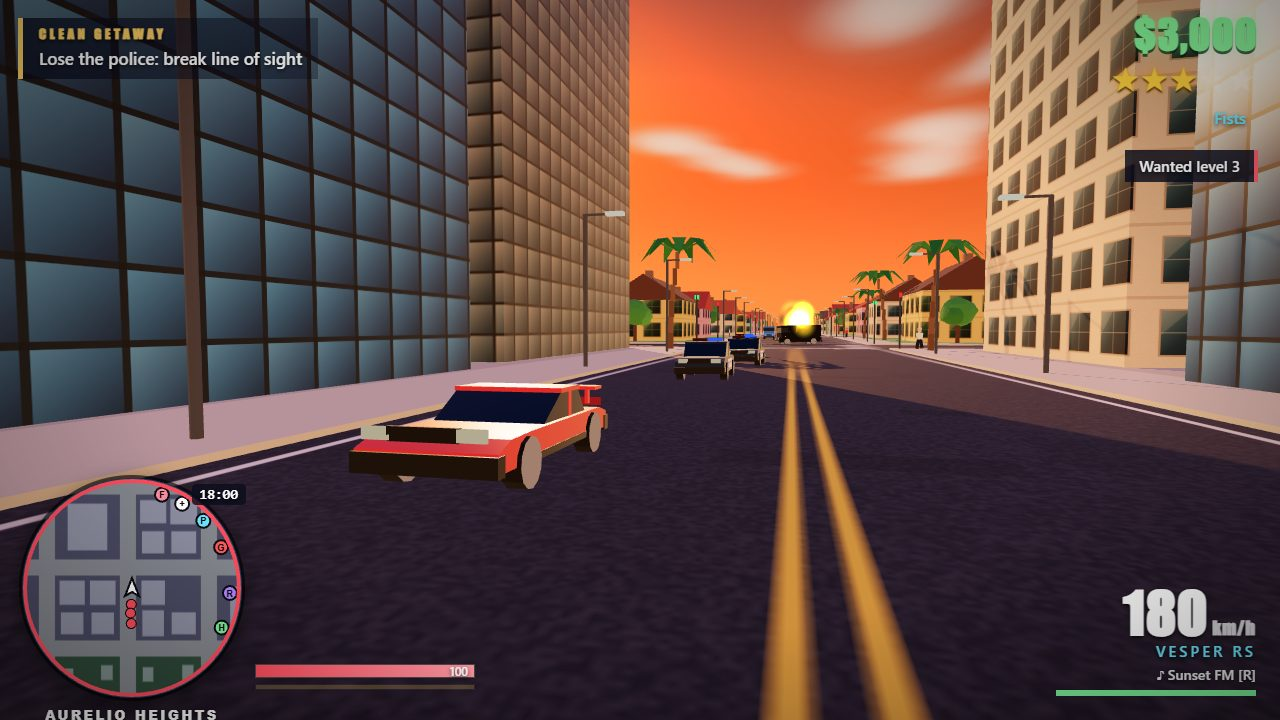
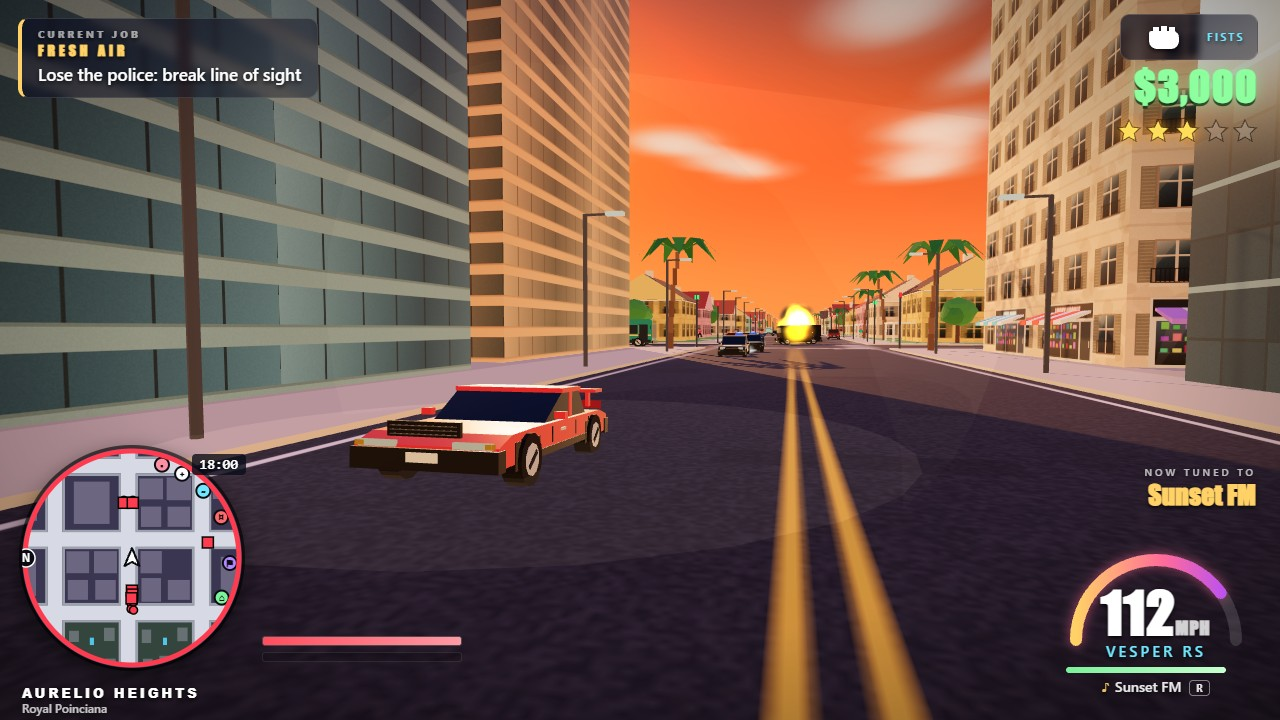
Style the new HUD and menus: SVG wanted stars, weapon card, gauge speedometer, pause panes, save slots; refresh screenshots

diff --git a/game/styles.css b/game/styles.css
@@ -88,3 +88,141 @@ html, body { margin: 0; height: 100%; overflow: hidden; background: #0a0c14; fon
 @keyframes blink { to { opacity: 0.35; } } @keyframes pulse { to { transform: scale(1.04); } } @keyframes floatup { from { opacity: 1; transform: translateY(0); } to { opacity: 0; transform: translateY(-40px); } }
 #loading { position: fixed; inset: 0; background: #0a0c14; z-index: 40; display: flex; flex-direction: column; align-items: center; justify-content: center; font: 700 22px Arial; letter-spacing: 0.3em; transition: opacity .6s; } #loading.done { opacity: 0; pointer-events: none; }
 #loading small { margin-top: 12px; font-size: 12px; opacity: 0.6; letter-spacing: 0.1em; }
+
+/* ---- HUD v2: glass panels, SVG stars and weapon icons, gauge speedometer, location, radio pop, death receipt ---- */
+.glass { background: linear-gradient(135deg, rgba(14,16,34,0.72), rgba(14,16,34,0.38)); border: 1px solid rgba(255,255,255,0.12); border-radius: 10px; backdrop-filter: blur(4px); }
+.objective { padding: 10px 16px 12px; border-left: 4px solid var(--gold); }
+.objective.free { border-left-color: var(--cyan); opacity: 0.9; }
+.objective.pulse { animation: objpulse .6s ease-out; }
+.obj-kicker { font: 800 10px/1 'Segoe UI', Arial; letter-spacing: 0.3em; color: rgba(255,255,255,0.6); margin-bottom: 5px; }
+.obj-title { font-size: 14px; margin-bottom: 5px; }
+.obj-row { display: flex; align-items: center; gap: 10px; }
+.obj-row .obj-bar { flex: 1; min-width: 120px; }
+.racepanel { padding: 10px 16px; border-left: 4px solid #b388ff; }
+.race-pos { font: 900 40px/1 Impact; } .race-pos small { font-size: 18px; opacity: .7; } .race-t { font: 800 18px monospace; color: var(--gold); }
+
+.topright { display: flex; flex-direction: column; align-items: flex-end; gap: 6px; }
+.weapon { display: flex; align-items: center; gap: 10px; padding: 6px 12px; margin: 0; }
+.weapon.swap { animation: wswap .35s ease-out; }
+.wicon { width: 64px; height: 32px; display: flex; align-items: center; justify-content: center; }
+.wicon svg { width: 100%; height: 100%; fill: #fff; filter: drop-shadow(0 2px 2px rgba(0,0,0,.7)); }
+.winfo { display: flex; flex-direction: column; align-items: flex-end; line-height: 1.1; }
+.wammo { font: 800 20px 'Segoe UI', Arial; } .wammo small { font-size: 13px; opacity: .7; } .wammo em { font-style: normal; font-size: 13px; color: var(--gold); } .wammo.low { color: #ff5d6c; }
+.wname { margin: 0; font-size: 11px; letter-spacing: .2em; }
+.money.flash { color: #c8ffd0; } .money.down.flash { color: #ff8a8a; }
+.money-pops { position: relative; height: 0; width: 100%; }
+.money-pop { top: -6px; }
+.stars { display: flex; gap: 3px; margin: 0; font-size: 0; letter-spacing: 0; }
+.stars.hidden { display: none; }
+.star { width: 26px; height: 26px; display: inline-block; }
+.star svg { width: 100%; height: 100%; display: block; fill: rgba(255,255,255,0.16); stroke: rgba(0,0,0,0.5); stroke-width: 1; }
+.star.on svg { fill: #ffd23f; filter: drop-shadow(0 0 6px #ff9f1c); }
+.stars.searching .star.on svg { animation: blink .5s infinite alternate; }
+.stars.hot .star.on svg { fill: #ffdf5a; }
+
+.minimap-wrap { bottom: 52px; }
+.bars { left: 240px; bottom: 6px; width: 200px; }
+.bar { height: 10px; border-radius: 3px; overflow: hidden; }
+.bar.ar.empty { opacity: .35; }
+.bar.st { position: absolute; left: 20px; right: 20px; bottom: -12px; height: 4px; border: 0; border-radius: 2px; transition: opacity .6s; }
+.bar.st.full { opacity: 0; }
+.location { position: absolute; left: 0; top: calc(100% + 16px); width: 420px; white-space: nowrap; line-height: 1.15; }
+.loc-district { font: 800 13px Arial; letter-spacing: .22em; text-transform: uppercase; color: #fff; }
+.loc-street { font-size: 12px; opacity: .75; }
+
+.speedwrap { width: 220px; display: flex; flex-direction: column; align-items: flex-end; }
+.gauge { width: 200px; height: 130px; margin-bottom: -70px; }
+.g-track { fill: none; stroke: rgba(255,255,255,0.14); stroke-width: 12; stroke-linecap: round; }
+.g-fill { fill: none; stroke: url(#hudGauge); stroke-width: 12; stroke-linecap: round; filter: drop-shadow(0 0 6px rgba(255,107,154,.6)); }
+.speed { position: relative; width: 200px; text-align: center; }
+.speed b { font-weight: 900; }
+.speedwrap .carname, .speedwrap .radio { width: 200px; text-align: center; }
+.carhp { margin: 6px auto 0; width: 160px; border-radius: 3px; overflow: hidden; } .carhp i { background: linear-gradient(90deg, #7cf29a, #c8ffd0); } .carhp.low i { background: #ff5d6c; }
+.radio i { font-style: normal; color: var(--gold); margin-right: 6px; }
+.radio kbd, .prompt kbd { display: inline-block; margin-left: 8px; padding: 0 6px; border: 1px solid rgba(255,255,255,.5); border-radius: 4px; font: 700 12px monospace; text-shadow: none; }
+.radio-pop { position: absolute; right: 24px; bottom: 210px; text-align: right; opacity: 0; transform: translateY(10px); transition: opacity .3s, transform .3s; }
+.radio-pop.show { opacity: 1; transform: none; }
+.radio-pop small { display: block; font-size: 10px; letter-spacing: .3em; opacity: .7; }
+.radio-pop b { font: 900 26px Impact; color: var(--gold); }
+
+.subtitle b { margin-right: 10px; }
+.notif { display: flex; align-items: center; gap: 8px; border-radius: 6px; } .n-dot { width: 8px; height: 8px; border-radius: 50%; background: var(--cyan); } .notif.good .n-dot { background: #7cf29a; } .notif.warn .n-dot { background: #ff5d6c; }
+.banner-kicker { font: 800 13px Arial; letter-spacing: .4em; opacity: .8; margin-bottom: 8px; }
+
+.cross { border: 0; box-shadow: none; }
+.cross::after { width: 3px; height: 3px; margin: -1.5px; background: #fff; box-shadow: 0 0 3px #000; }
+.cross .ch { position: absolute; background: #fff; box-shadow: 0 0 2px #000; }
+.cross .ch.t, .cross .ch.b { left: 12px; width: 2px; height: 7px; } .cross .ch.t { top: -2px; } .cross .ch.b { bottom: -2px; }
+.cross .ch.l, .cross .ch.r { top: 12px; height: 2px; width: 7px; } .cross .ch.l { left: -2px; } .cross .ch.r { right: -2px; }
+.hitmark { position: absolute; inset: -10px; opacity: 0; transition: opacity .08s; }
+.hitmark.on { opacity: 1; }
+.hitmark i { position: absolute; width: 10px; height: 2px; background: #fff; }
+.hitmark i:nth-child(1) { left: 0; top: 4px; transform: rotate(45deg); } .hitmark i:nth-child(2) { right: 0; top: 4px; transform: rotate(-45deg); }
+.hitmark i:nth-child(3) { left: 0; bottom: 4px; transform: rotate(-45deg); } .hitmark i:nth-child(4) { right: 0; bottom: 4px; transform: rotate(45deg); }
+.hitmark.kill i { background: #ff4d5e; }
+.hud-fx { position: absolute; inset: 0; }
+.dp-title { font: inherit; } .dp-sub { font: 600 16px Arial; letter-spacing: .1em; opacity: .8; text-align: center; }
+
+.death-kicker { font: 800 14px Arial; letter-spacing: .4em; opacity: .8; }
+.death-bill { margin: 26px auto 0; width: 300px; padding: 14px 18px; background: #f4efe4; color: #1a1a1a; text-shadow: none; font-family: monospace; opacity: 0; transform: translateY(20px) rotate(-2deg); transition: opacity .5s, transform .5s; display: flex; flex-direction: column; gap: 4px; }
+.death-bill.show { opacity: 1; transform: rotate(-2deg); }
+.death-bill b { font-size: 28px; color: #c0182a; } .death-bill small { font-size: 12px; opacity: .7; } .bill-label { font-size: 12px; letter-spacing: .2em; }
+body.fx-flatline #game { filter: grayscale(.85) contrast(1.1); transition: filter 1s; }
+body.fx-arrest #game { filter: saturate(.4) hue-rotate(190deg); transition: filter 1s; }
+@keyframes objpulse { from { transform: translateX(-8px); opacity: .4; } to { transform: none; opacity: 1; } }
+@keyframes wswap { from { transform: scale(1.15); } to { transform: none; } }
+
+/* ---- Menus v2: title logo, pause two-pane, stats, save slots, controls, settings, map ---- */
+.glass-panel { background: linear-gradient(160deg, rgba(18,20,42,0.95), rgba(10,12,28,0.92)); border: 1px solid rgba(255,255,255,0.14); border-radius: 14px; box-shadow: 0 20px 80px rgba(0,0,0,0.6); }
+.title-box { max-width: 720px; position: relative; z-index: 1; }
+.title-logo { display: flex; flex-direction: column; font-size: clamp(54px, 8vw, 112px); line-height: .9; background: none; color: inherit; -webkit-background-clip: border-box; background-clip: border-box; filter: none; }
+.title-logo span { background: linear-gradient(180deg, #fff6c9 0%, #ffd166 35%, #ff4fa3 75%, #9b5de5 100%); -webkit-background-clip: text; background-clip: text; color: transparent; filter: drop-shadow(0 4px 0 rgba(0,0,0,0.55)) drop-shadow(0 0 22px rgba(255,79,168,0.45)); white-space: nowrap; }
+.title-logo .logo-b { font-size: .62em; letter-spacing: .32em; background: linear-gradient(180deg, #b6f6ff, #6ee7ff 50%, #ff4fd8); -webkit-background-clip: text; background-clip: text; }
+.title-sun { position: absolute; right: 12vw; top: 14vh; width: 26vh; height: 26vh; border-radius: 50%; background: radial-gradient(circle, rgba(255,214,120,.55), rgba(255,120,80,0) 70%); pointer-events: none; }
+.title-foot kbd, .pause-foot kbd, .map-help kbd, .ctl kbd { display: inline-block; background: #23264a; border: 1px solid #5a5f9a; border-bottom-width: 3px; border-radius: 5px; padding: 2px 7px; margin: 0 2px; font: 700 12px/1.2 monospace; color: #fff; }
+.menu-btn:focus { outline: none; transform: translateX(8px); background: rgba(255, 79, 168, 0.28); border-color: var(--gold); }
+.menu-btn.on { background: rgba(255, 209, 102, 0.22); border-left-color: var(--gold); }
+.menu-btn.danger { border-left-color: #ff5d6c; }
+.menu-btn.back { align-self: flex-start; margin-top: 10px; }
+
+.pause-box { display: grid; grid-template-columns: 260px 1fr; width: min(1040px, 94vw); height: min(640px, 88vh); overflow: hidden; }
+.pause-nav { display: flex; flex-direction: column; gap: 8px; padding: 24px 18px; background: rgba(0,0,0,0.25); border-right: 1px solid rgba(255,255,255,0.08); }
+.pause-nav .menu-btn { font-size: 15px; padding: 11px 16px; }
+.pause-title { font: 900 34px/1 Impact, 'Arial Black'; letter-spacing: .12em; color: var(--gold); margin-bottom: 10px; }
+.pause-foot { margin-top: auto; font-size: 12px; opacity: .7; }
+.pause-content { padding: 26px 32px; overflow: auto; }
+.pause-content h2, .panel-body h2, .map-side h2 { margin: 0 0 14px; font: 900 30px Impact, 'Arial Black'; letter-spacing: .1em; color: var(--gold); }
+.story-progress { display: flex; align-items: center; gap: 14px; margin-bottom: 18px; font-weight: 800; letter-spacing: .15em; }
+.sp-bar { flex: 1; height: 10px; background: rgba(255,255,255,.12); border-radius: 5px; overflow: hidden; } .sp-bar i { display: block; height: 100%; background: linear-gradient(90deg, var(--gold), var(--pink)); }
+.stats-grid { display: grid; grid-template-columns: 1fr 1fr; gap: 8px 22px; }
+.stat { display: flex; justify-content: space-between; gap: 12px; padding: 9px 12px; background: rgba(255,255,255,.05); border-radius: 6px; }
+.stat em { font-style: normal; opacity: .75; } .stat b { color: #fff; }
+.slots { display: flex; flex-direction: column; gap: 10px; }
+.slot-row { display: flex; gap: 8px; align-items: stretch; } .slot-row.active .menu-btn.slot { border-left-color: var(--gold); }
+.menu-btn.slot { flex: 1; display: flex; align-items: center; gap: 14px; font-size: 15px; letter-spacing: .04em; clip-path: none; }
+.menu-btn.slot.empty { opacity: .45; }
+.slot-n { font: 900 28px Impact; font-style: normal; color: var(--gold); width: 26px; }
+.slot-info { display: flex; flex-direction: column; gap: 4px; } .slot-info span { font-weight: 400; opacity: .8; font-size: 13px; } .slot-info small { opacity: .55; font-weight: 400; font-size: 11px; }
+.menu-btn.slot-del { clip-path: none; border-left-width: 2px; padding: 0 16px; font-size: 16px; }
+.controls-cols { display: grid; grid-template-columns: repeat(auto-fit, minmax(260px, 1fr)); gap: 18px 28px; }
+.controls-group h3 { margin: 0 0 8px; font-size: 13px; letter-spacing: .3em; color: var(--cyan); }
+.ctl { display: flex; justify-content: space-between; align-items: center; gap: 12px; padding: 5px 0; border-bottom: 1px solid rgba(255,255,255,.06); font-size: 14px; }
+.ctl em { font-style: normal; opacity: .85; text-align: right; }
+.setting { grid-template-columns: 200px 1fr 70px; padding: 8px 0; border-bottom: 1px solid rgba(255,255,255,.06); }
+.segmented { display: flex; gap: 6px; grid-column: 2 / 4; }
+.menu-btn.seg { clip-path: none; border-left-width: 2px; font-size: 13px; padding: 8px 14px; }
+.menu-btn.seg:hover, .menu-btn.seg:focus { transform: none; }
+.credits { line-height: 1.6; color: #e2e2f2; }
+.panel-body { display: flex; flex-direction: column; }
+.shop-row .menu-btn.price { clip-path: none; min-width: 110px; text-align: center; border-left-width: 2px; }
+.ending-stats { margin: 10px 0; }
+
+.map-wrap { display: flex; gap: 20px; align-items: center; justify-content: center; width: 100%; height: 100%; padding: 3vh 3vw; }
+.map-wrap .fullmap { height: 90vh; width: 90vh; max-width: 70vw; max-height: 90vh; border-radius: 12px; cursor: crosshair; }
+.map-side { width: 260px; padding: 22px; }
+.legend { display: flex; flex-direction: column; gap: 8px; margin-bottom: 16px; }
+.lg { display: flex; align-items: center; gap: 10px; font-size: 14px; }
+.lg i { width: 20px; height: 20px; border-radius: 50%; display: inline-flex; align-items: center; justify-content: center; font: 700 11px Arial; font-style: normal; color: #fff; border: 2px solid rgba(255,255,255,.8); }
+.lg i.lg-cop { background: linear-gradient(90deg, #ff3b4f 50%, #3a86ff 50%); }
+.lg i.lg-route { border-radius: 2px; height: 5px; border: 0; background: #b04dff; }
+.map-help { font-size: 13px; line-height: 2; opacity: .85; }
